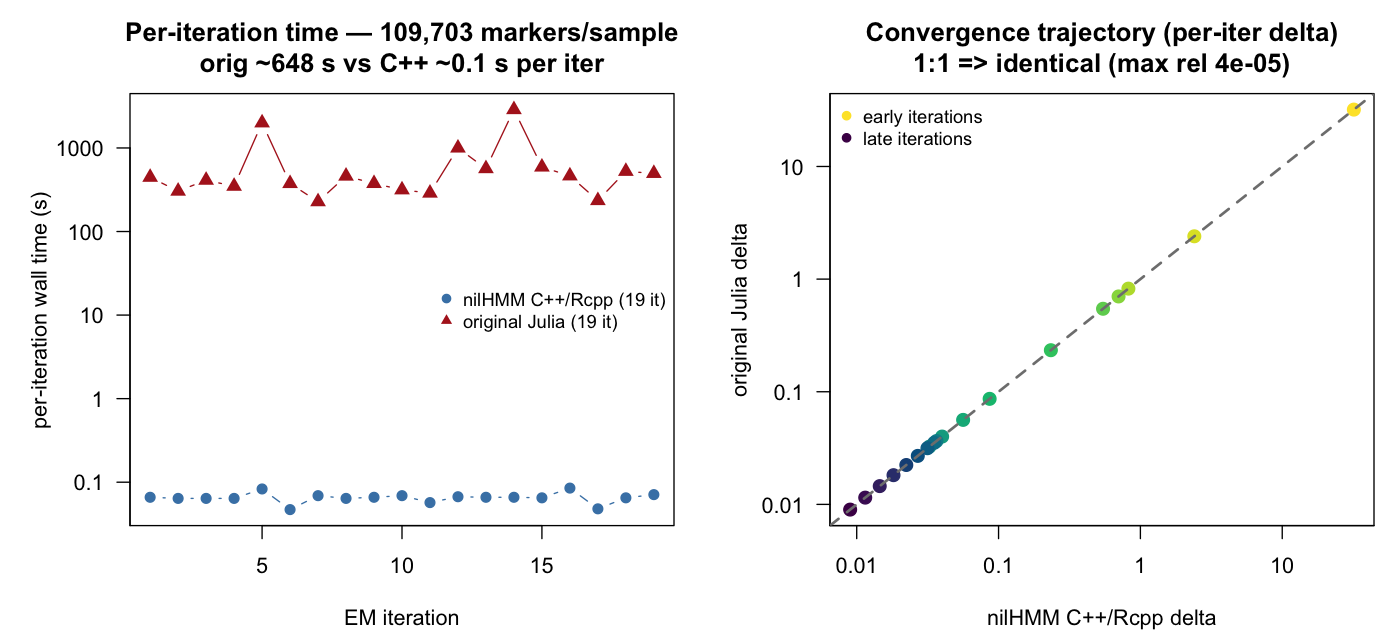
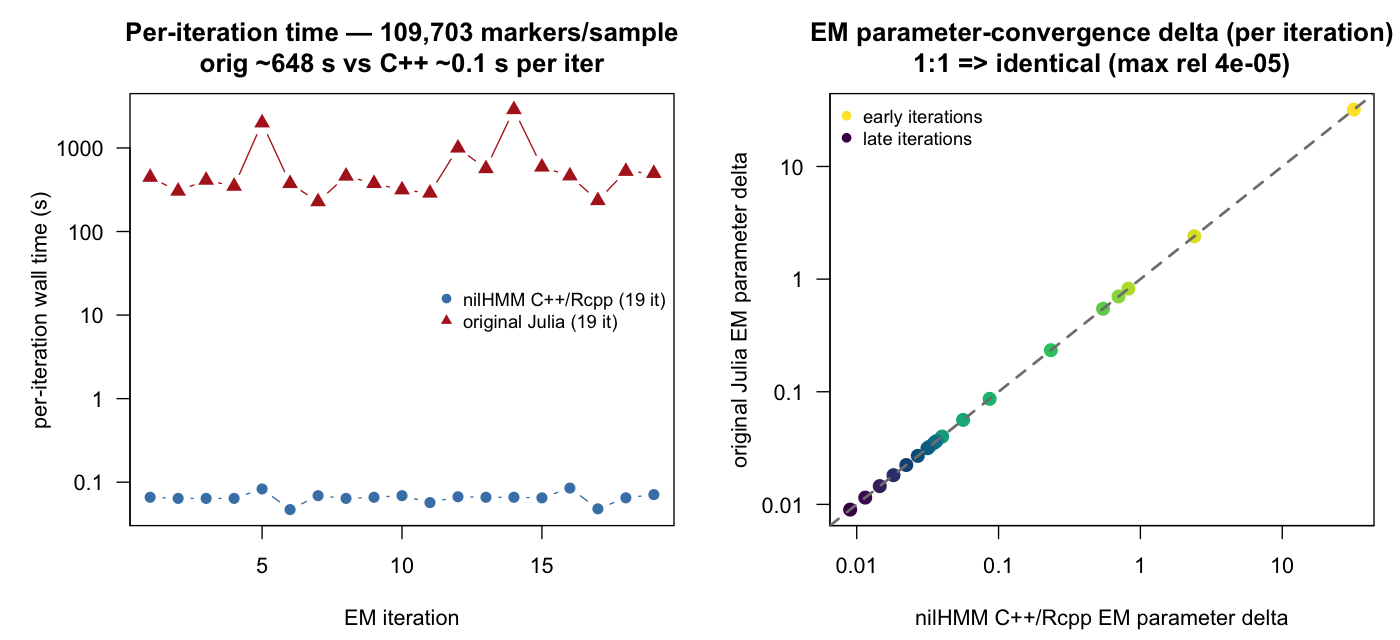
docs(optimization): 888-line nNIL rewrite, equivalence sweep, figure renames
Supplement updates for the C++/Rcpp optimization benchmark:

- §1: swap in the 2-panel RTIGER time+memory figure (renamed
  rtiger_marker_scaling.png; old standalone rtiger_marker_scaling_cpp.png
  removed), merge Throughput+Memory into one subsection, drop the C++-only
  memory sample-sweep table.
- §1 Fig 1: relabel the right-panel delta as the EM parameter-convergence
  delta (max |Delta(alpha,beta)|, RTIGER's convergence criterion), not a
  log-likelihood change, in the axes, title, caption, and §1.1 text.
- §2: rewrite to the corrected 888-line File_S10-exact input (56,854,200
  states; nnil vs Holland File_S11 = 1 mismatch, 0 at informative markers);
  drop the confusing File_S11-vs-File-S18 table.
- §2: add the nNIL equivalence sweep (Table 3) mirroring tab:cpp-equiv, with
  a Viterbi match / states denominator and a mismatch-rate column; rename the
  scaling figure to nnil_marker_scaling.png (re-rendered at 888 lines).
- Remove the §2.3 calibration foil (promoted to the main paper).

Builds clean: 6 pp, 0 overfull hboxes, refs resolve, no \todo.

Changed region(s): [[0.5529, 0.0312, 1.0, 0.0938], [0.645, 0.9375, 0.9214, 1.0], [0.5221, 0.25, 0.5529, 0.7188]]

diff --git a/supplement_optimization.tex b/supplement_optimization.tex
@@ -84,8 +84,11 @@ the \emph{same} number of EM iterations, impute \emph{identical} ancestry states
 at every marker position across all three samples (0 mismatches; 329{,}109 of
 329{,}109 states at the full panel), and fit emission parameters agreeing to
 $\le 8\times10^{-6}$, which is float-summation order, not an algorithmic
-difference. The per-iteration convergence trajectories coincide on the
-$1{:}1$ line (Fig.~\ref{fig:cpp-equiv}, right).
+difference. Their per-iteration EM convergence trajectories coincide on the
+$1{:}1$ line (Fig.~\ref{fig:cpp-equiv}, right): here the plotted $\delta$ is the
+\emph{EM parameter delta}, the maximum absolute change in the BetaBinomial emission
+parameters $(\alpha,\beta)$ between successive EM iterations, which is RTIGER's own
+convergence criterion (compared against \code{eps}), not a log-likelihood change.
 
 \begin{table}[htbp]
 \centering
@@ -120,9 +123,12 @@ emission parameters agreeing to float-summation tolerance. Compute:
 \caption{Shared panel, 109{,}703 markers/sample, both cores run to convergence (19
 iterations each). \textbf{Left:} per-iteration wall time, original Julia
 ($\sim$648~s/iter, erratic because of its emission line search) vs nilHMM C++/Rcpp
-($\sim$0.1~s/iter, flat). \textbf{Right:} each iteration's C++ convergence
-$\delta$ against the original Julia $\delta$ on a log-log $1{:}1$ line (max
-relative difference $4\times10^{-5}$), early (yellow) to late (purple). The left
+($\sim$0.1~s/iter, flat). \textbf{Right:} each iteration's \emph{EM parameter
+delta} (the maximum absolute change in the BetaBinomial emission parameters
+$(\alpha,\beta)$ between successive EM iterations, i.e.\ RTIGER's convergence
+criterion, not a log-likelihood change), C++ against original Julia on a log-log
+$1{:}1$ line (max relative difference $4\times10^{-5}$), early (yellow) to late
+(purple). The left
 panel illustrates the speed optimization (a full-fit speed-up of $\sim$10{,}000$\times$ here,
 3.4~h to $\sim$1.2~s); the right illustrates the faithful reproduction, the two
 cores descending the identical path to convergence.}
@@ -130,27 +136,41 @@ cores descending the identical path to convergence.}
 \end{figure}
 
 %----------------------------------------------------------------------
-\subsection{Throughput}
+\subsection{Throughput and memory}
 %----------------------------------------------------------------------
 On a log-log plot the per-iteration wall time against markers per sample is a
 straight line whose slope is the empirical complexity exponent
-(Fig.~\ref{fig:cpp-scaling}). The upstream original scales as
+(Fig.~\ref{fig:cpp-scaling}, left). The upstream original scales as
 markers$^{2.10}$, roughly quadratic, dominated by an emission M-step that rebuilds
 a \code{BetaBinomial} per marker on every optimizer evaluation. The C++/Rcpp core
-scales as markers$^{0.96}$, essentially linear, because it groups markers by
+scales as markers$^{0.94}$, essentially linear, because it groups markers by
 distinct read-count pair $(k,n)$ and pre-sums the $\gamma$ weights once, so the
 emission line search costs $O(\#\text{distinct pairs})$ rather than
-$O(\#\text{markers})$. Removing that one factor of $N$ is what turns the full fit
-from hours into a second and makes the calibration and coverage sweeps of the main
-text tractable (Table~\ref{tab:cpp-speed}).
+$O(\#\text{markers})$. Removing that one factor of $N$ turns the full fit from
+hours into a second and makes the calibration and coverage sweeps of the main text
+tractable (Table~\ref{tab:cpp-speed}).
+
+Memory separates the two the same way (Fig.~\ref{fig:cpp-scaling}, right). The C++
+E-step folds each chain into fixed-size sufficient statistics (the $s\times s$
+transition counts, the start and emission accumulators, and a map over the distinct
+$(k,n)$ pairs) and never retains the per-sample
+\code{zeta}/\code{gamma}/\code{alpha}/\code{beta} arrays, whereas the original holds
+them for every sample. On the shared panel the C++ core uses $\sim$5$\times$ less
+resident memory ($\sim$137--200~MiB vs $\sim$763--992~MiB). Because its EM scratch
+is $O(\text{threads}\cdot T_{\max})$ rather than $O(N\cdot T)$, that gap widens with
+sample count: a population-scale joint fit stays within a workstation's memory where
+the array-retaining original would not.
 
 \begin{figure}[htbp]
 \centering
-\includegraphics[width=0.82\textwidth]{figures/rtiger_marker_scaling_cpp.png}
-\caption{Per-iteration wall time against markers per sample on the shared panel,
-log-log; points are measurements, dashed lines the power-law fits. Original Julia
-$\sim$~markers$^{2.10}$ (quadratic), nilHMM C++/Rcpp $\sim$~markers$^{0.96}$
-(linear).}
+\includegraphics[width=\textwidth]{figures/rtiger_marker_scaling.png}
+\caption{RTIGER scaling on the shared \emph{Arabidopsis} panel, original
+array-retaining Julia vs nilHMM C++/Rcpp (both measured on the same machine, points
+are measurements, dashed lines the power-law fits). \textbf{Left:} per-iteration
+wall time (original $\sim$markers$^{2.10}$, quadratic; C++ $\sim$markers$^{0.94}$,
+linear). \textbf{Right:} peak resident memory; the C++ core streams sufficient
+statistics and stays $\sim$5$\times$ lower. Compute:
+\code{scripts/rtiger\_memory\_plot.R}.}
 \label{fig:cpp-scaling}
 \end{figure}
 
@@ -175,44 +195,6 @@ quadratic (Fig.~\ref{fig:cpp-scaling}).}
 \label{tab:cpp-speed}
 \end{table}
 
-%----------------------------------------------------------------------
-\subsection{Memory}
-%----------------------------------------------------------------------
-The C++ E-step folds each chain into fixed-size sufficient statistics (the
-$s\times s$ transition counts, the start and emission accumulators, and a map over
-the distinct $(k,n)$ pairs) and reduces them in a fixed chain order; it never
-retains the per-sample \code{zeta}/\code{gamma}/\code{alpha}/\code{beta} arrays.
-EM scratch is therefore $O(\text{threads}\cdot T_{\max})$ rather than
-$O(N\cdot T)$: it does not grow with the sample count $N$. A peak-RSS sweep
-confirms this (Table~\ref{tab:cpp-mem}): cycling 2 to 60 samples at 50{,}000
-markers each, peak resident memory grows as only
-$\sim$162~MiB~$+\;2.1$~MiB/sample ($R^2=0.97$), where the intercept is the
-R and package runtime and the $2.1$~MiB/sample slope is the retained input count
-vectors, not EM working memory. There is no per-sample array retention, so a
-population-scale joint fit stays within a workstation's memory.
-
-\begin{table}[htbp]
-\centering
-\small
-\begin{tabular}{@{}r r@{}}
-\toprule
-samples (50{,}000 markers each) & peak RSS \\
-\midrule
-2  & 154~MiB \\
-4  & 179~MiB \\
-8  & 174~MiB \\
-16 & 207~MiB \\
-30 & 223~MiB \\
-60 & 287~MiB \\
-\bottomrule
-\end{tabular}
-\caption{nilHMM C++/Rcpp peak resident memory (\code{/usr/bin/time -l}) as the
-sample count grows at fixed markers/sample. The near-flat growth
-($\sim$2.1~MiB/sample, the held input counts) shows EM scratch does not scale with
-$N$. Compute: \code{scripts/bench\_rtiger\_cpp\_vs\_julia.R --memory}.}
-\label{tab:cpp-mem}
-\end{table}
-
 %======================================================================
 \section{Reproduction of the nested-NIL HMM (nNIL)}
 \label{supp:nnil}
@@ -229,9 +211,10 @@ directly, running both cores on the same genotypes and comparing calls
 position-by-position.
 
 \paragraph{Data.} The full Zhong \emph{et al.} nNIL population: File S1 raw GBS
-genotypes (884 nested-NIL lines) subset to the exact 64{,}025 markers and lines of
-the published call set (File S18), recoded \{REF, het, donor, missing\} $\to$
-\{0,1,2,3\}, giving 56{,}598{,}100 genotype states. Both cores were run from the
+genotypes put through Holland's own \code{File\_S10} filter, which reproduces his
+filtered genotype table exactly (888 nested-NIL lines $\times$ 64{,}025 markers, 0
+cell differences), recoded \{REF, het, donor, missing\} $\to$
+\{0,1,2,3\}, giving 56{,}854{,}200 genotype states. Both cores were run from the
 published operating point (File S16: \code{nir}$=0.9$, \code{germ}$=0.01$,
 \code{gert}$=10^{-4}$, $p=0.9$, $f_1=0.00781$, $f_2=0.01118$, $r=4.7\times10^{-4}$).
 Compute: \code{scripts/nnil\_equiv/}.
@@ -239,31 +222,45 @@ Compute: \code{scripts/nnil\_equiv/}.
 %----------------------------------------------------------------------
 \subsection{Equivalence to the original Python}
 %----------------------------------------------------------------------
-On the full population nilHMM's \code{nNIL} reproduces Holland's original caller to
-2 states in $5.7\times10^{7}$ (Table~\ref{tab:nnil-equiv}), and reproduces the
-\emph{published} File S18 calls exactly: the 35-state residual against File S18 is
-identical for both cores, i.e.\ an artifact of our marker/line reconstruction of
-the input, not of the caller. At \emph{every} informative (homozygous) marker the
-calls are identical; the handful of differences fall only at missing, uninformative
-positions.
+We decode the full population with both cores at seven marker densities (odd-index
+thinning of the 64{,}025-marker panel, as in the RTIGER sweep), from identical
+thinned genotypes and the identical per-size transition rate, and compare the calls
+position by position (Table~\ref{tab:nnil-equiv}). At \emph{every} density the two
+cores agree at \emph{every} informative (homozygous) marker (0 informative-marker
+mismatches throughout, the exactness test). The only differences, a handful out of
+tens of millions of states (1 at the full panel, at most $\sim$100 at the sparsest),
+fall exclusively at missing and heterozygous positions, where two ancestry states
+are emission-equal and any Viterbi difference is a boundary tie-break, not a
+decoding disagreement. Holland's own re-run reproduces the \emph{published} File S18
+calls exactly (0 mismatches), confirming the input is byte-identical to his.
 
 \begin{table}[htbp]
 \centering
 \small
-\begin{tabular}{@{}l r r r@{}}
+\begin{tabular}{@{}r c r r r@{}}
 \toprule
-comparison (56{,}598{,}100 states) & mismatches & agreement & at informative markers \\
+markers / line & Viterbi match / states & mismatches & mismatch rate & at informative markers \\
 \midrule
-nilHMM \code{nNIL} vs Holland \code{File\_S11} & 2  & 99.999996\% & 0 \\
-Holland \code{File\_S11} vs published File S18 & 35 & 99.9999\%   & --- \\
-nilHMM \code{nNIL} vs published File S18        & 35 & 99.9999\%   & 0 \\
+64{,}025 & 56{,}854{,}199 / 56{,}854{,}200 & 1   & $1.8\times10^{-8}$ & 0 \\
+32{,}013 & 28{,}427{,}540 / 28{,}427{,}544 & 4   & $1.4\times10^{-7}$ & 0 \\
+16{,}007 & 14{,}214{,}197 / 14{,}214{,}216 & 19  & $1.3\times10^{-6}$ & 0 \\
+8{,}004  & 7{,}107{,}539 / 7{,}107{,}552   & 13  & $1.8\times10^{-6}$ & 0 \\
+4{,}002  & 3{,}553{,}756 / 3{,}553{,}776   & 20  & $5.6\times10^{-6}$ & 0 \\
+2{,}001  & 1{,}776{,}784 / 1{,}776{,}888   & 104 & $5.9\times10^{-5}$ & 0 \\
+1{,}001  & 888{,}848 / 888{,}888           & 40  & $4.5\times10^{-5}$ & 0 \\
 \bottomrule
 \end{tabular}
-\caption{nilHMM \code{nNIL} vs Holland's original Python (\code{hmmlearn}) and vs
-the published File S18 calls, on the full Zhong \emph{et al.} nNIL population (884
-lines $\times$ 64{,}025 markers). Identical at every informative (homozygous)
-marker; the few differences fall at missing, uninformative positions. Compute:
-\code{scripts/nnil\_equiv/}.}
+\caption{nilHMM \code{nNIL} vs Holland's original Python (\code{hmmlearn}) on the
+full Zhong \emph{et al.} nNIL population (888 lines), over an odd-index
+marker-density sweep of the 64{,}025-marker panel, both cores run on the same
+\code{File\_S10}-filtered genotypes and the identical per-size transition rate. The
+\emph{Viterbi match / states} column gives the agreeing ancestry states
+(REF/het/donor) out of the total, (markers/line)~$\times$~888, pooled over every
+position; \emph{mismatches} is the disagreeing count and \emph{mismatch rate} its
+fraction of the total. At every density the two
+cores are identical at every informative (homozygous) marker (0 in the last column);
+the few total differences fall only at missing and heterozygous positions, where the
+states are emission-equal. Compute: \code{scripts/nnil\_equiv/07\_equiv\_sweep.R}.}
 \label{tab:nnil-equiv}
 \end{table}
 
@@ -271,7 +268,7 @@ marker; the few differences fall at missing, uninformative positions. Compute:
 \subsection{Throughput and memory}
 %----------------------------------------------------------------------
 Both callers were run on the same memory-mapped PLINK \code{.bed} input, over an
-odd-index marker-density sweep of the full 884-line population
+odd-index marker-density sweep of the full 888-line population
 (Fig.~\ref{fig:nnil-scaling}). At the full 64{,}025 markers nilHMM decodes the
 population in $\sim$4~s against $\sim$20~s for the \code{hmmlearn} caller (roughly
 $5\times$ faster), with both times scaling near-linearly in marker count. Peak
@@ -281,8 +278,8 @@ matrix and reaches $2.3$~GiB, the gap widening with marker density.
 
 \begin{figure}[htbp]
 \centering
-\includegraphics[width=\textwidth]{figures/nnil_scaling.png}
-\caption{nNIL caller scaling with marker density over the full 884-line population
+\includegraphics[width=\textwidth]{figures/nnil_marker_scaling.png}
+\caption{nNIL caller scaling with marker density over the full 888-line population
 (odd-index thinning of the 64{,}025-marker panel, shared memory-mapped
 \code{.bed}). \textbf{Left:} wall time (log-log, power-law fits); the C++/Rcpp
 \code{nNIL} is $\sim$5$\times$ faster. \textbf{Right:} peak resident memory; nilHMM
@@ -290,18 +287,6 @@ streams rows and stays low while the \code{hmmlearn} caller holds the full matri
 and the gap widens. Compute: \code{scripts/nnil\_equiv/06\_sweep.R}.}
 \label{fig:nnil-scaling}
 \end{figure}
-
-%----------------------------------------------------------------------
-\subsection{The calibration foil}
-%----------------------------------------------------------------------
-The reproduction above establishes that nilHMM's \code{nNIL} \emph{is} Holland's
-caller. The remaining, forward-looking result is the calibration foil: on the
-24-line SNP-chip-truth subset, whether the operating point Zhong \emph{et al.}\
-selected by chip optimization and the \code{rrate} selected by \code{simcross}
-calibration (no chip) coincide. \todo{run the simcross calibration of \code{rrate}
-on the nNIL design and overlay the two operating points and their segmentation
-agreement.} That would be the concrete population-scale evidence for the main
-text's claim that simulation substitutes for scarce high-coverage truth.
 
 \bibliographystyle{plainnat}
 \bibliography{references}